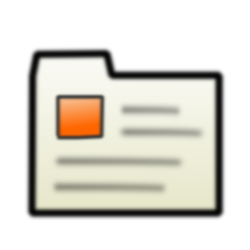
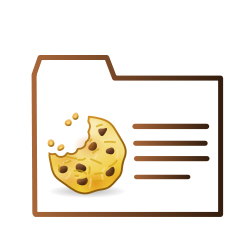
2010-07-10  Thomas M. Hinkle  <tom@grenville>
* images/* - New cookie icon.

	* src/lib/version.py (version): Version-->0.15.5

	* src/lib/recindex.py (RecIndex.tree_keypress_cb): Handle Page-Up,
	Page-Down, Home and End properly for our multiple page interface.

diff --git a/src/lib/recindex.py b/src/lib/recindex.py
@@ -93,6 +93,7 @@ class RecIndex:
             )
         self.search_actions.get_action('toggleRegexp').connect_proxy(self.regexpTog)
         self.rectree = self.glade.get_widget('recTree')
+        self.sw = self.glade.get_widget('scrolledwindow')
         self.rectree.connect('start-interactive-search',lambda *args: self.srchentry.grab_focus())
         self.prev_button = self.glade.get_widget('prevButton')
         self.next_button = self.glade.get_widget('nextButton')
@@ -236,6 +237,7 @@ class RecIndex:
         self.rectree_conf.apply_column_order()
         self.rectree_conf.apply_visibility()
         self.rectree.connect("row-activated",self.rec_tree_select_rec)#self.rec_tree_select_rec)
+        self.rectree.connect('key-press-event',self.tree_keypress_cb)        
         self.rectree.get_selection().connect("changed",self.selection_changedCB)
         self.rectree.set_property('rules-hint',True) # stripes!
         self.rectree.expand_all()
@@ -546,6 +548,34 @@ class RecIndex:
         self.rmodel.update_iter(iter)
         self.rd.save()
 
+    def tree_keypress_cb (self, widget, event):
+        keyname = gtk.gdk.keyval_name(event.keyval)
+        if keyname in ['Page_Up','Page_Down']:
+            sb = self.sw.get_vscrollbar()
+            adj =  self.sw.get_vscrollbar().get_adjustment() 
+            val = adj.get_value(); upper = adj.get_upper()
+            if keyname == 'Page_Up':
+                if val > 0:
+                    return None
+                self.rmodel.prev_page()
+                sb.set_value(upper)
+                return True
+            if keyname == 'Page_Down':
+                if val < (upper - adj.page_size):
+                    return None
+                self.rmodel.next_page()
+                sb.set_value(0)
+                return True
+        if keyname == 'Home':
+            self.rmodel.goto_first_page()
+            self.sw.get_vscrollbar().set_value(0)
+            return True            
+        if keyname == 'End':
+            self.rmodel.goto_last_page()
+            sb = self.sw.get_vscrollbar()
+            sb.set_value(sb.get_adjustment().get_upper())
+            return True            
+        
     def star_change_cb (self, value, model, treeiter, column_number):
         #itr = model.convert_iter_to_child_iter(None,treeiter)
         #self.rmodel.set_value(treeiter,column_number,value)

diff --git a/src/lib/GourmetRecipeManager.py b/src/lib/GourmetRecipeManager.py
@@ -1024,8 +1024,6 @@ class RecGui (RecIndex, GourmetApplication, ImporterExporter, StuffThatShouldBeP
         self.rectree.connect('button-press-event',popcb)
         # Set up delete key in recipe treeview
         self.rectree.connect('key-press-event',self.rec_tree_keypress_cb)
-
-        
         self.main.show()
 
     def rectree_popup (self, tv, event, *args):

diff --git a/src/lib/gtk_extras/mnemonic_manager.py b/src/lib/gtk_extras/mnemonic_manager.py
@@ -43,7 +43,7 @@ class MnemonicManager:
     mm.sacred_cows is a list of items that should never be changed.
     """
 
-    sacred_cows = ['okay','cancel','close']
+    sacred_cows = ['okay','cancel','close','file','edit']
 
     def __init__ (self):
         self.mnemonics = {}
